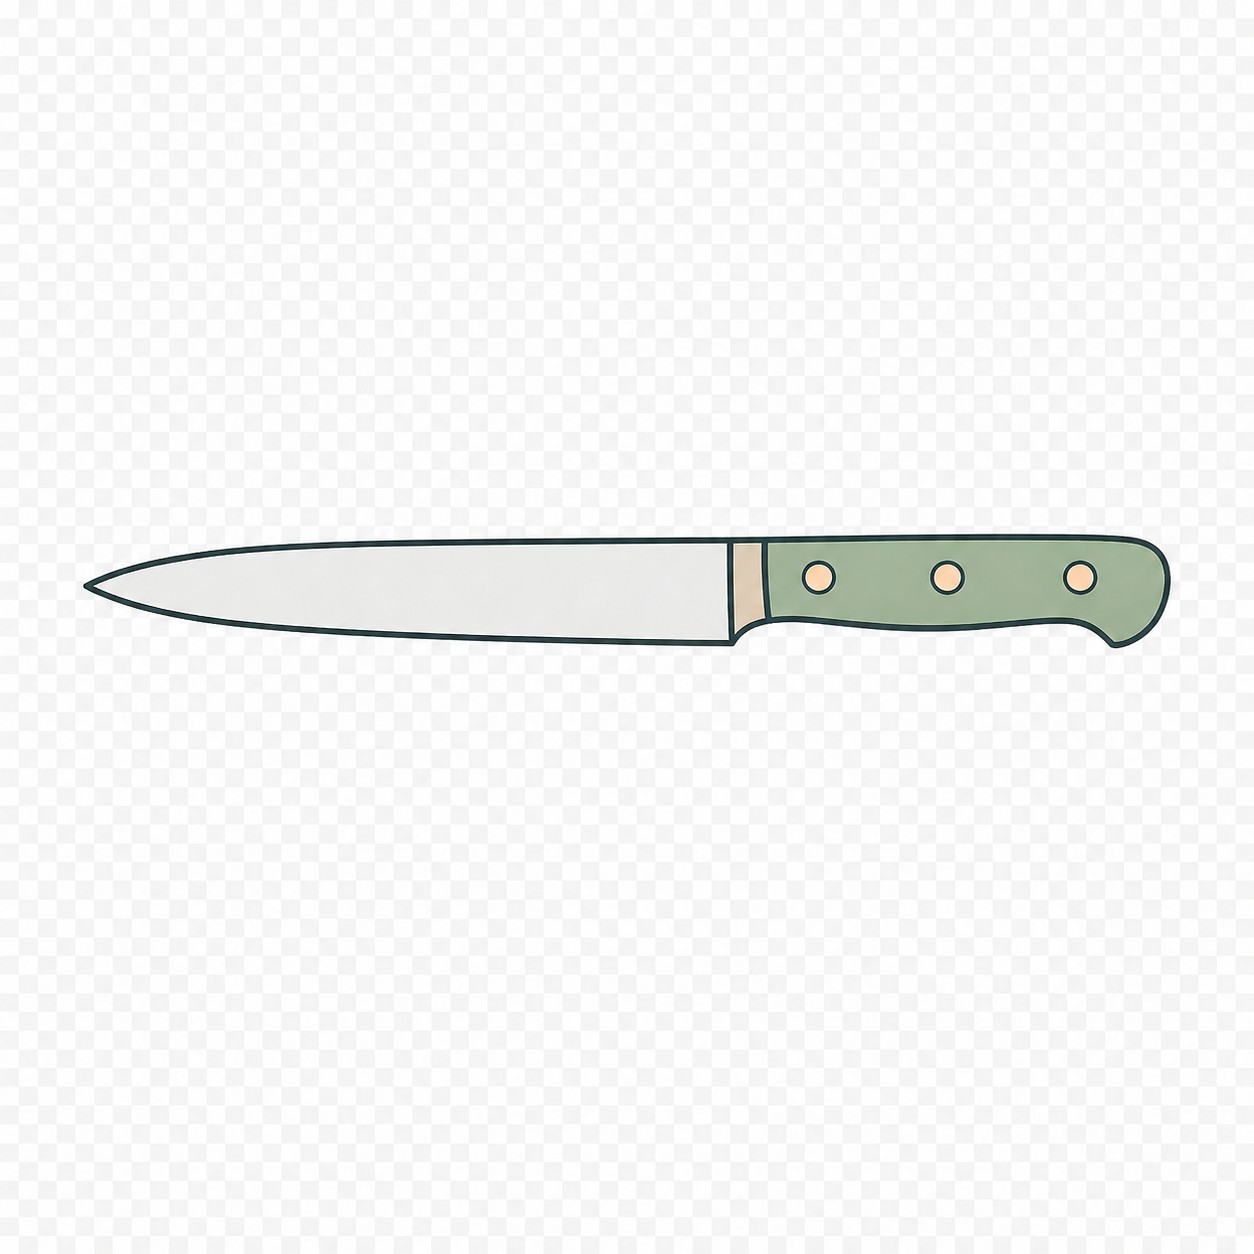
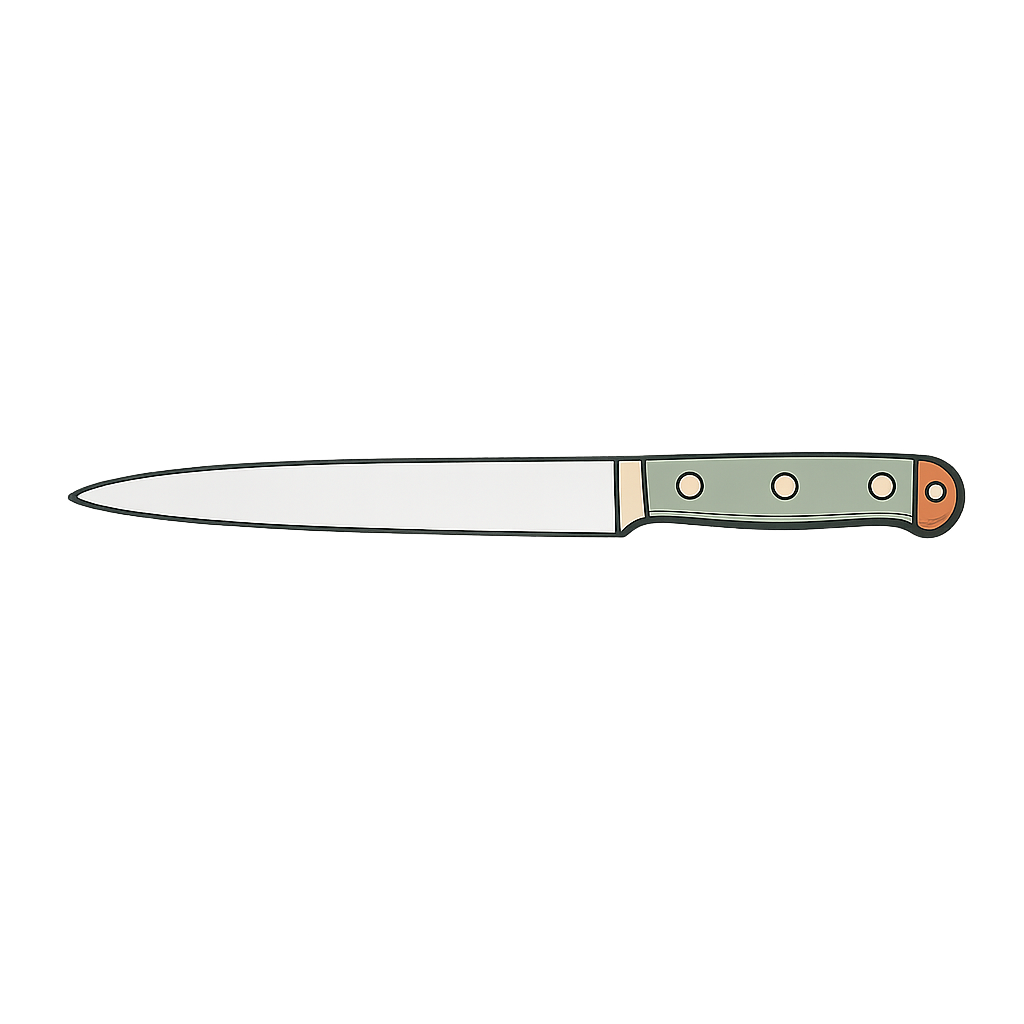
Om-side + nav: personlig "Om mig"-historie, prisblad i footer
- Topmenu: Webshop · Om · Erhverv (Prisblad flyttet til footeren; /priser bevaret
  for SEO + print). Fjernet dubleret "Om" i mobilmenu.
- /knivslibning (Om): kicker "Om mig", personlig intro (Mikkel Stæhr, Lolland,
  værksted i Sundby), og historie-sektion "Med samme respekt, hver gang"
  (håndslebet, erfaring, container vs. dyrt produkt — samme respekt for materialet).
- Resten af siden lagt om til "jeg"-tone + dashes fjernet.

Changed region(s): [[0.0625, 0.4062, 0.9688, 0.5312]]

diff --git a/src/app/knivslibning-nykoebing-falster/page.tsx b/src/app/knivslibning-nykoebing-falster/page.tsx
@@ -24,13 +24,13 @@ export default function KnivslibningNykoebingFalster() {
       {/* Bento-hero — fylder bredden */}
       <div className="grid gap-[16px] lg:grid-cols-[1.1fr_0.9fr]">
         <div className="flex flex-col justify-center rounded-[24px] bg-panel p-[28px] md:p-[48px]">
-          <p className="kicker text-accent">Om Sundby Sliberi</p>
+          <p className="kicker text-accent">Om mig</p>
           <h1 className="mt-[14px] font-display text-[36px] uppercase leading-[1.05] text-ink md:text-[56px]">
             Knivslibning i Sundby, Nykøbing Falster
           </h1>
           <p className="mt-[20px] max-w-[52ch] text-[16px] leading-relaxed text-muted md:text-[18px]">
-            Skarp, nænsom slibning af knive, værktøj og maskinklinger — lokalt på Lolland-Falster. Du
-            afleverer dine ting hos os, så ringer vi dig op og aftaler pris og leveringsdag.
+            Jeg hedder Mikkel Stæhr, bor på Lolland og sliber knive, værktøj, haveredskaber og alt
+            andet der skal gøres skarpt, ud af mit værksted i Sundby.
           </p>
           <div className="mt-[28px] flex flex-wrap gap-[12px]">
             <Link
@@ -60,12 +60,15 @@ export default function KnivslibningNykoebingFalster() {
       {/* Indhold — to brede kort */}
       <div className="mt-[16px] grid gap-[16px] md:grid-cols-2">
         <section className="rounded-[20px] border border-line bg-surface p-[24px] md:p-[36px]">
-          <h2 className="text-[22px] font-semibold text-ink">Lokal knivslibning på Lolland-Falster</h2>
+          <h2 className="text-[22px] font-semibold text-ink">Med samme respekt, hver gang</h2>
           <p className="mt-[14px] text-[16px] leading-relaxed text-muted">
-            Hos Sundby Sliberi tilbyder vi skarp og nænsom slibning af køkkenknive, værktøj og
-            maskinklinger – lokalt i Sundby, Nykøbing Falster. Du afleverer dine ting hos os, og med
-            mange års erfaring i slibning får du et resultat, du kan stole på hver gang. Det skal være
-            let og tilgængeligt for alle – uanset om du er amatør eller professionel.
+            Alt bliver håndslebet og renoveret i hånden. Intet er overladt til tilfældighederne. Med
+            rigelig erfaring og en stadig sult efter ny viden bliver hver opgave taget ordentligt hånd
+            om.
+          </p>
+          <p className="mt-[14px] text-[16px] leading-relaxed text-muted">
+            Det er lige meget, om kniven er fundet i en container eller har kostet flere tusinde
+            kroner. Alt bliver renoveret, slebet og poleret op med samme respekt for materialet.
           </p>
         </section>
 
@@ -73,12 +76,12 @@ export default function KnivslibningNykoebingFalster() {
           <h2 className="text-[22px] font-semibold text-ink">Sådan bestiller du knivslibning</h2>
           <p className="mt-[14px] text-[16px] leading-relaxed text-muted">
             Bestillingen foregår online: vælg hvad du vil have slebet, og udfyld dine oplysninger. Når
-            vi har modtaget din bestilling, ringer vi dig op og aftaler pris og leveringsdag.
+            jeg har modtaget din bestilling, ringer jeg dig op og aftaler pris og leveringsdag.
           </p>
           <p className="mt-[14px] text-[16px] leading-relaxed text-muted">
-            Vi sliber blandt andet kokkeknive, urteknive, brødknive, økser, stemmejern,
-            plæneklipperklinger og meget mere. Er du i tvivl, om vi kan hjælpe med din skærekant, er du
-            altid velkommen til at kontakte os.
+            Jeg sliber blandt andet kokkeknive, urteknive, brødknive, økser, stemmejern,
+            plæneklipperklinger og meget mere. Er du i tvivl, om jeg kan hjælpe med din skærekant, er
+            du altid velkommen til at kontakte mig.
           </p>
         </section>
       </div>

diff --git a/src/components/Header.tsx b/src/components/Header.tsx
@@ -8,7 +8,7 @@ import { CartIcon } from "./CartIcon";
 
 const NAV = [
   { href: "/bestil", label: "Webshop" },
-  { href: "/priser", label: "Prisblad" },
+  { href: "/knivslibning-nykoebing-falster", label: "Om" },
   { href: "/erhverv", label: "Erhverv" },
 ];
 
@@ -89,13 +89,6 @@ export function Header() {
                 {item.label}
               </Link>
             ))}
-            <Link
-              href="/knivslibning-nykoebing-falster"
-              onClick={() => setOpen(false)}
-              className="kicker py-[10px] text-[13px] text-muted"
-            >
-              Om
-            </Link>
             <PhoneLink className="pt-[12px]" />
           </nav>
         </div>

diff --git a/src/components/Footer.tsx b/src/components/Footer.tsx
@@ -44,6 +44,11 @@ export function Footer() {
                 </Link>
               </li>
               <li>
+                <Link href="/priser" className="text-ink transition-colors hover:text-accent">
+                  Prisblad
+                </Link>
+              </li>
+              <li>
                 <Link href="/erhverv" className="text-ink transition-colors hover:text-accent">
                   Erhverv
                 </Link>